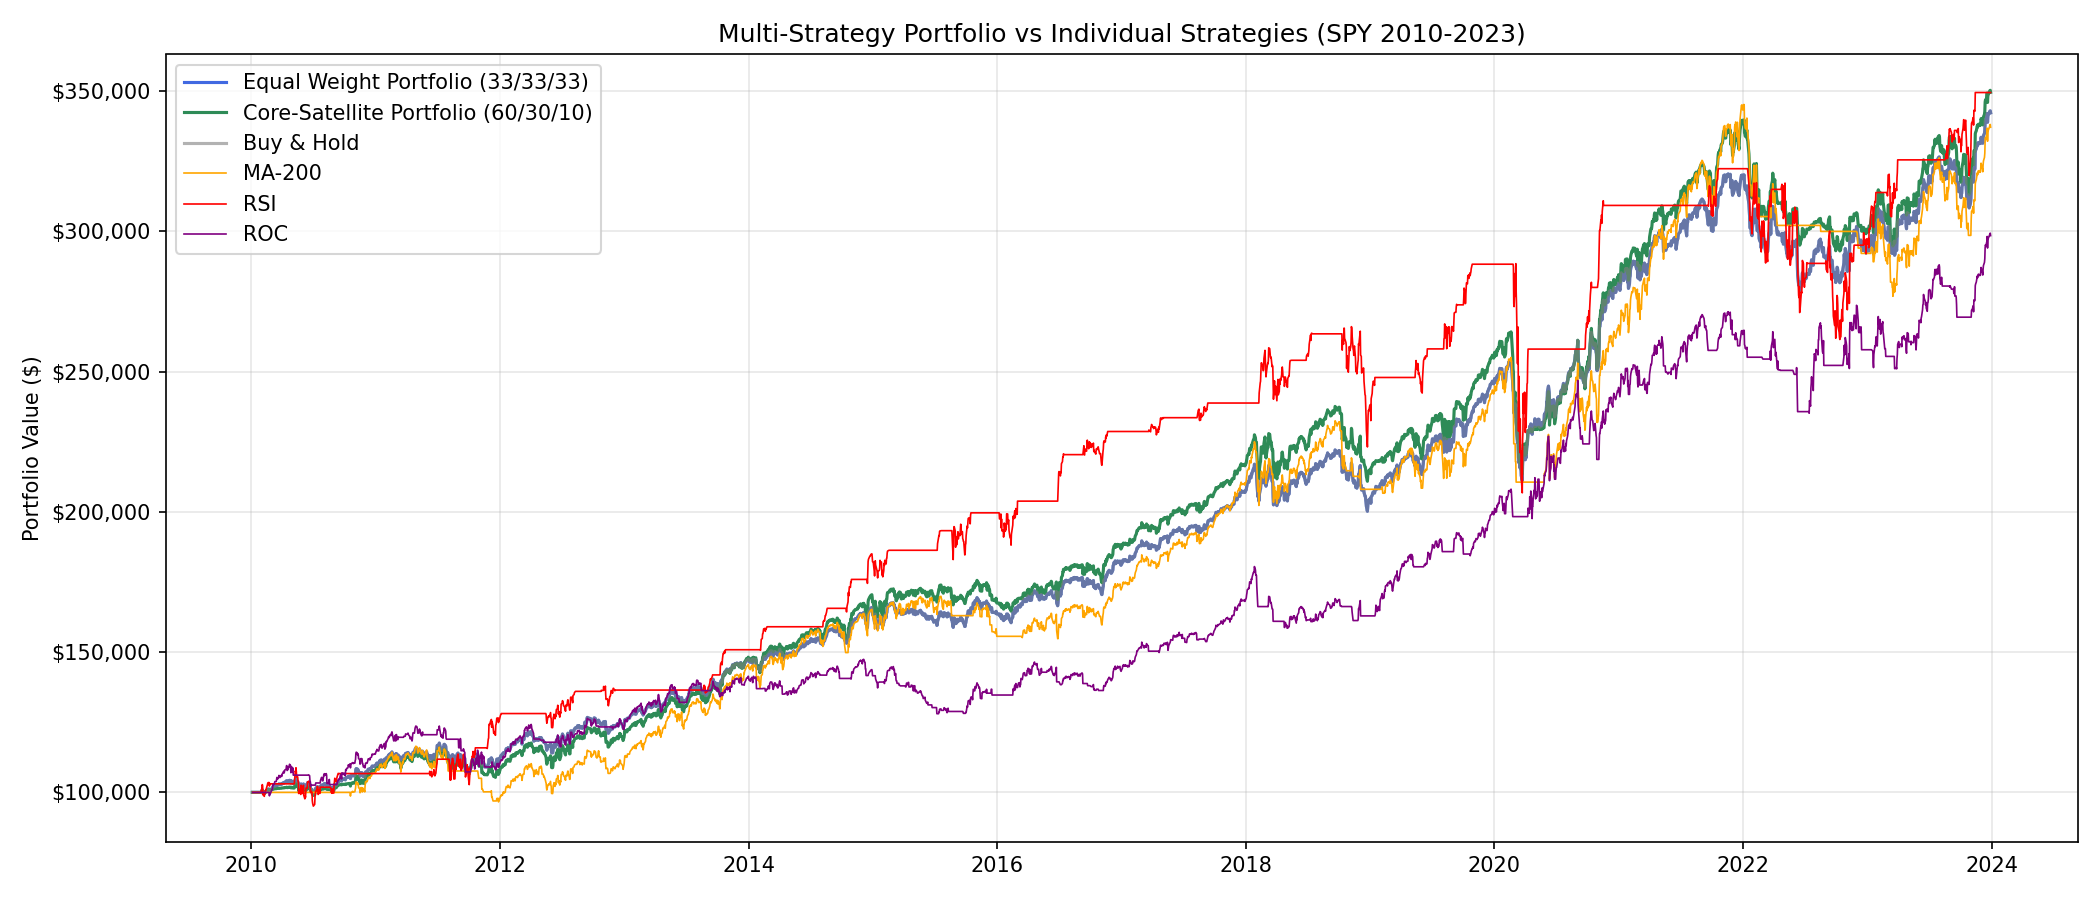
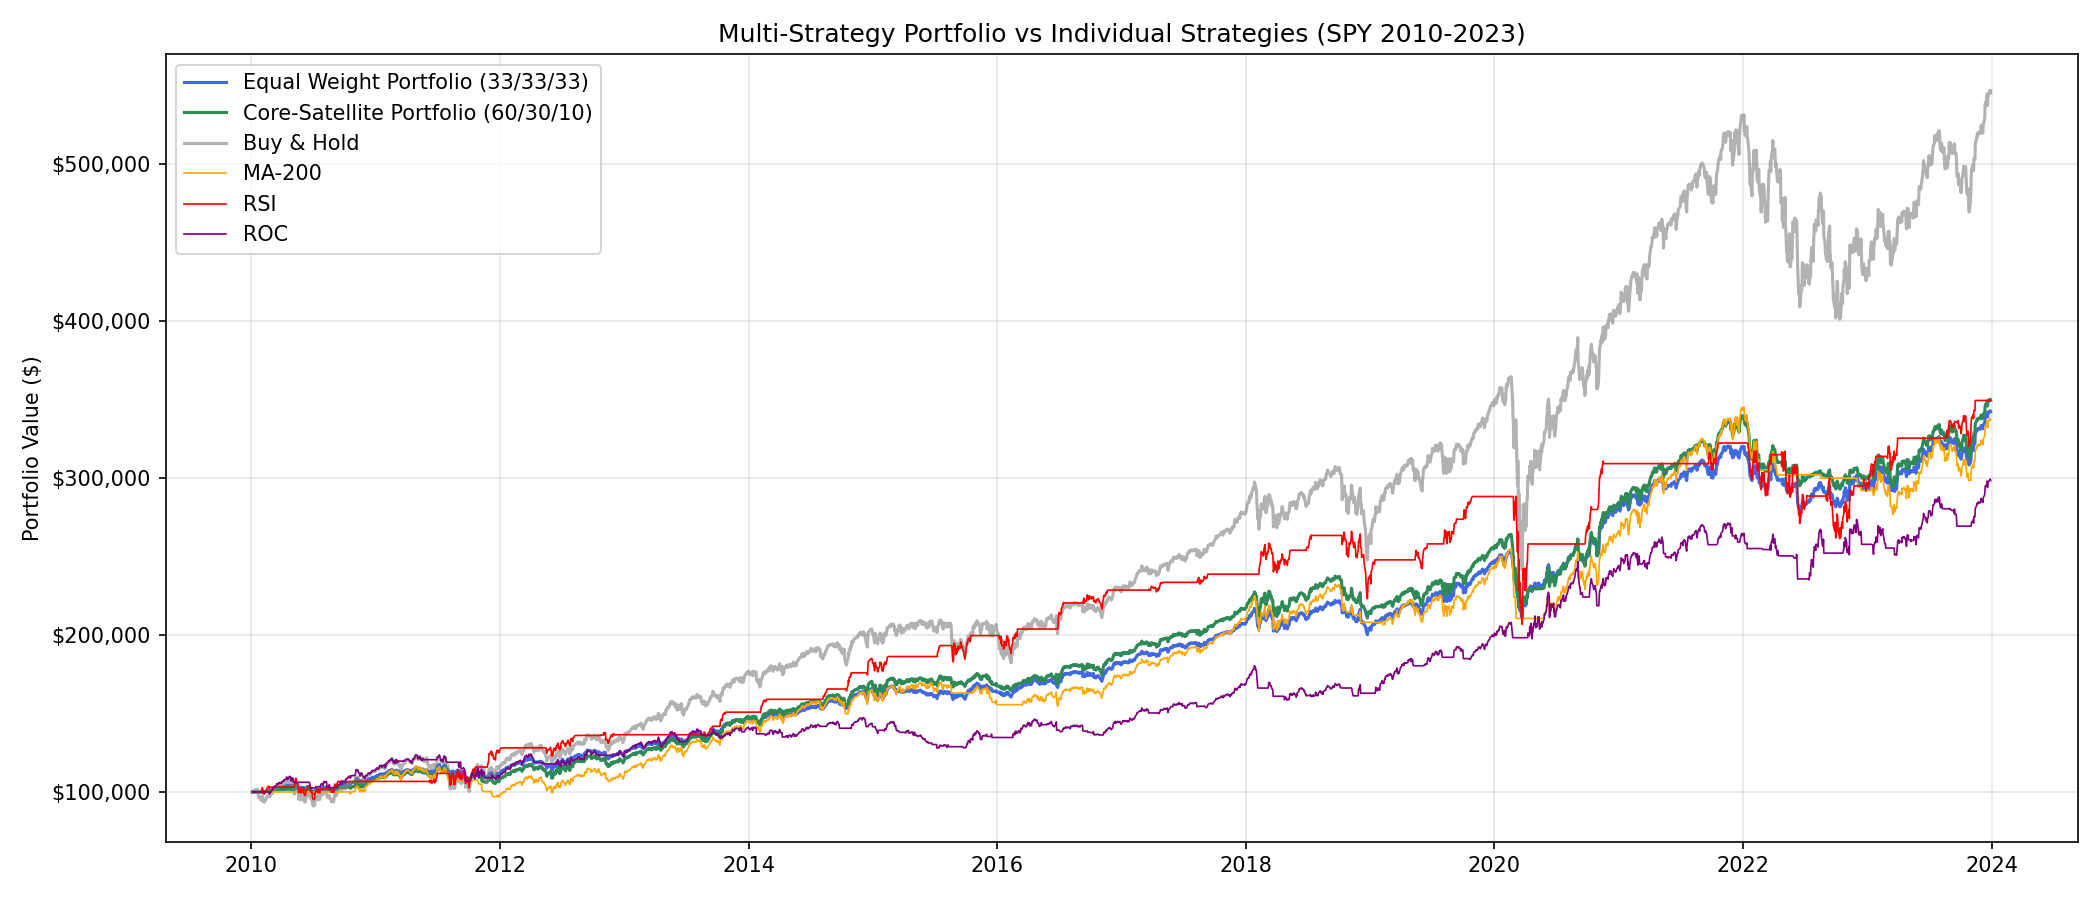
Changed line 119 to buyhold instead of portfolio, wrong column

diff --git a/run.py b/run.py
@@ -35,8 +35,8 @@ weight = {
 # --- RSI-heavy portfolio (To answer Session 2's Q2 intuition) (Session 3) ---
 # Core: MA trend follow. Satellite: RSI mean reversion
 weight_core_satellite = {
-    "signal_ma": 0.6,
-    "signal_rsi": 0.3,
+    "signal_ma": 0.3,
+    "signal_rsi": 0.6,
     "signal_roc": 0.1,
 }
 
@@ -76,7 +76,7 @@ print(f"\n{'Portfolio':<30} {'Final Equity':<12} {'Total Return %':13}")
 print("-" * 58)
 
 summarise("Custom Weight (33/33/33)", result_equal["equity_portfolio"])
-summarise("Core-Satellite (60/30/10)", result_cs["equity_portfolio"])
+summarise("Core-Satellite (30/60/10)", result_cs["equity_portfolio"])
 summarise("MA-200", result_equal["equity_signal_ma"])
 summarise("RSI", result_equal["equity_signal_rsi"])
 summarise("ROC-20", result_equal["equity_signal_roc"])
@@ -115,8 +115,8 @@ plt.figure(figsize=(14, 6))
 # )
 
 plt.plot(result_equal["equity_portfolio"].dropna(), linewidth = 1.5, label = "Equal Weight Portfolio (33/33/33)", color = "royalblue")
-plt.plot(result_cs["equity_portfolio"].dropna(), linewidth = 1.5, label = "Core-Satellite Portfolio (60/30/10)", color = "seagreen")
-plt.plot(result_equal["equity_portfolio"].dropna(), linewidth = 1.5, label = "Buy & Hold", color = "gray", alpha = 0.6)
+plt.plot(result_cs["equity_portfolio"].dropna(), linewidth = 1.5, label = "Core-Satellite Portfolio (30/60/10)", color = "seagreen")
+plt.plot(result_equal["equity_buyhold"].dropna(), linewidth = 1.5, label = "Buy & Hold", color = "gray", alpha = 0.6)
 
 # Individual strategies in the background
 for col, name, color in [
@@ -132,5 +132,5 @@ plt.legend()
 plt.grid(True, alpha = 0.3)
 plt.gca().yaxis.set_major_formatter(plt.FuncFormatter(lambda x, _: f"${x:,.0f}"))
 plt.tight_layout()
-plt.savefig("/Users/litian/Desktop/quant_projects/backtest_engine/sessions/session 3/session3_multiportfolio_comparison1.png", dpi = 150)
+plt.savefig("/Users/litian/Desktop/quant_projects/backtest_engine/sessions/session 3/session3_multiportfolio_comparison2.png", dpi = 150)
 plt.show()
